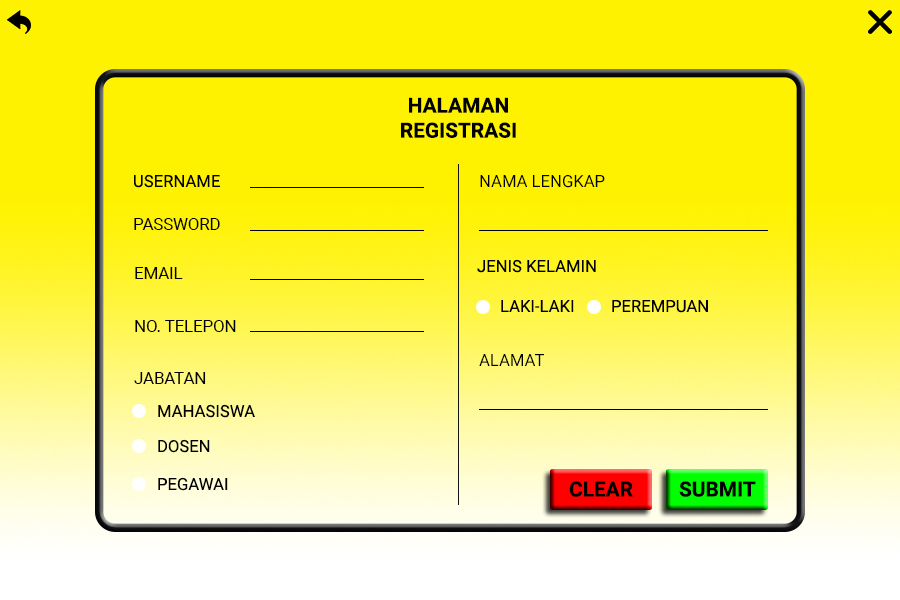
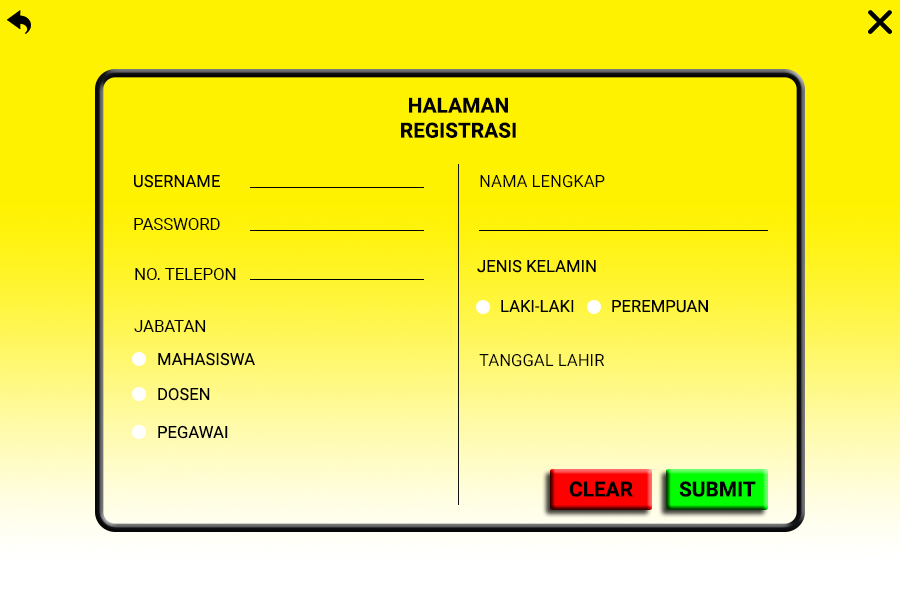
Regist progress

diff --git a/src/Login/RegisterPage.java b/src/Login/RegisterPage.java
@@ -35,7 +35,7 @@ public class RegisterPage extends javax.swing.JFrame {
         SubmitButton = new javax.swing.JLabel();
         CloseButton = new javax.swing.JLabel();
         BackButton = new javax.swing.JLabel();
-        Alamat = new javax.swing.JTextField();
+        jDateChooser1 = new com.toedter.calendar.JDateChooser();
         Perem = new javax.swing.JRadioButton();
         LK = new javax.swing.JRadioButton();
         Nama_Lengkap = new javax.swing.JTextField();
@@ -79,13 +79,7 @@ public class RegisterPage extends javax.swing.JFrame {
             }
         });
         getContentPane().add(BackButton, new org.netbeans.lib.awtextra.AbsoluteConstraints(10, 10, 23, 23));
-
-        Alamat.addActionListener(new java.awt.event.ActionListener() {
-            public void actionPerformed(java.awt.event.ActionEvent evt) {
-                AlamatActionPerformed(evt);
-            }
-        });
-        getContentPane().add(Alamat, new org.netbeans.lib.awtextra.AbsoluteConstraints(480, 390, 180, -1));
+        getContentPane().add(jDateChooser1, new org.netbeans.lib.awtextra.AbsoluteConstraints(480, 380, 290, -1));
 
         buttonGroup2.add(Perem);
         Perem.setOpaque(false);
@@ -100,19 +94,19 @@ public class RegisterPage extends javax.swing.JFrame {
                 Nama_LengkapActionPerformed(evt);
             }
         });
-        getContentPane().add(Nama_Lengkap, new org.netbeans.lib.awtextra.AbsoluteConstraints(480, 210, 180, -1));
+        getContentPane().add(Nama_Lengkap, new org.netbeans.lib.awtextra.AbsoluteConstraints(480, 210, 290, -1));
 
         buttonGroup1.add(Pegawai);
         Pegawai.setOpaque(false);
-        getContentPane().add(Pegawai, new org.netbeans.lib.awtextra.AbsoluteConstraints(129, 474, -1, -1));
+        getContentPane().add(Pegawai, new org.netbeans.lib.awtextra.AbsoluteConstraints(129, 422, -1, -1));
 
         buttonGroup1.add(Dosen);
         Dosen.setOpaque(false);
-        getContentPane().add(Dosen, new org.netbeans.lib.awtextra.AbsoluteConstraints(129, 436, -1, -1));
+        getContentPane().add(Dosen, new org.netbeans.lib.awtextra.AbsoluteConstraints(129, 384, -1, -1));
 
         buttonGroup1.add(Mhs);
         Mhs.setOpaque(false);
-        getContentPane().add(Mhs, new org.netbeans.lib.awtextra.AbsoluteConstraints(129, 401, -1, -1));
+        getContentPane().add(Mhs, new org.netbeans.lib.awtextra.AbsoluteConstraints(129, 348, -1, -1));
 
         Notelp.addActionListener(new java.awt.event.ActionListener() {
             public void actionPerformed(java.awt.event.ActionEvent evt) {
@@ -144,10 +138,6 @@ public class RegisterPage extends javax.swing.JFrame {
     private void Nama_LengkapActionPerformed(java.awt.event.ActionEvent evt) {//GEN-FIRST:event_Nama_LengkapActionPerformed
         // TODO add your handling code here:
     }//GEN-LAST:event_Nama_LengkapActionPerformed
-
-    private void AlamatActionPerformed(java.awt.event.ActionEvent evt) {//GEN-FIRST:event_AlamatActionPerformed
-        // TODO add your handling code here:
-    }//GEN-LAST:event_AlamatActionPerformed
 
     private void PasswordActionPerformed(java.awt.event.ActionEvent evt) {//GEN-FIRST:event_PasswordActionPerformed
         // TODO add your handling code here:
@@ -220,7 +210,6 @@ public class RegisterPage extends javax.swing.JFrame {
     }
 
     // Variables declaration - do not modify//GEN-BEGIN:variables
-    private javax.swing.JTextField Alamat;
     private javax.swing.JLabel BG;
     private javax.swing.JLabel BackButton;
     private javax.swing.JLabel ClearButton;
@@ -238,5 +227,6 @@ public class RegisterPage extends javax.swing.JFrame {
     private javax.swing.JTextField Username;
     private javax.swing.ButtonGroup buttonGroup1;
     private javax.swing.ButtonGroup buttonGroup2;
+    private com.toedter.calendar.JDateChooser jDateChooser1;
     // End of variables declaration//GEN-END:variables
 }
